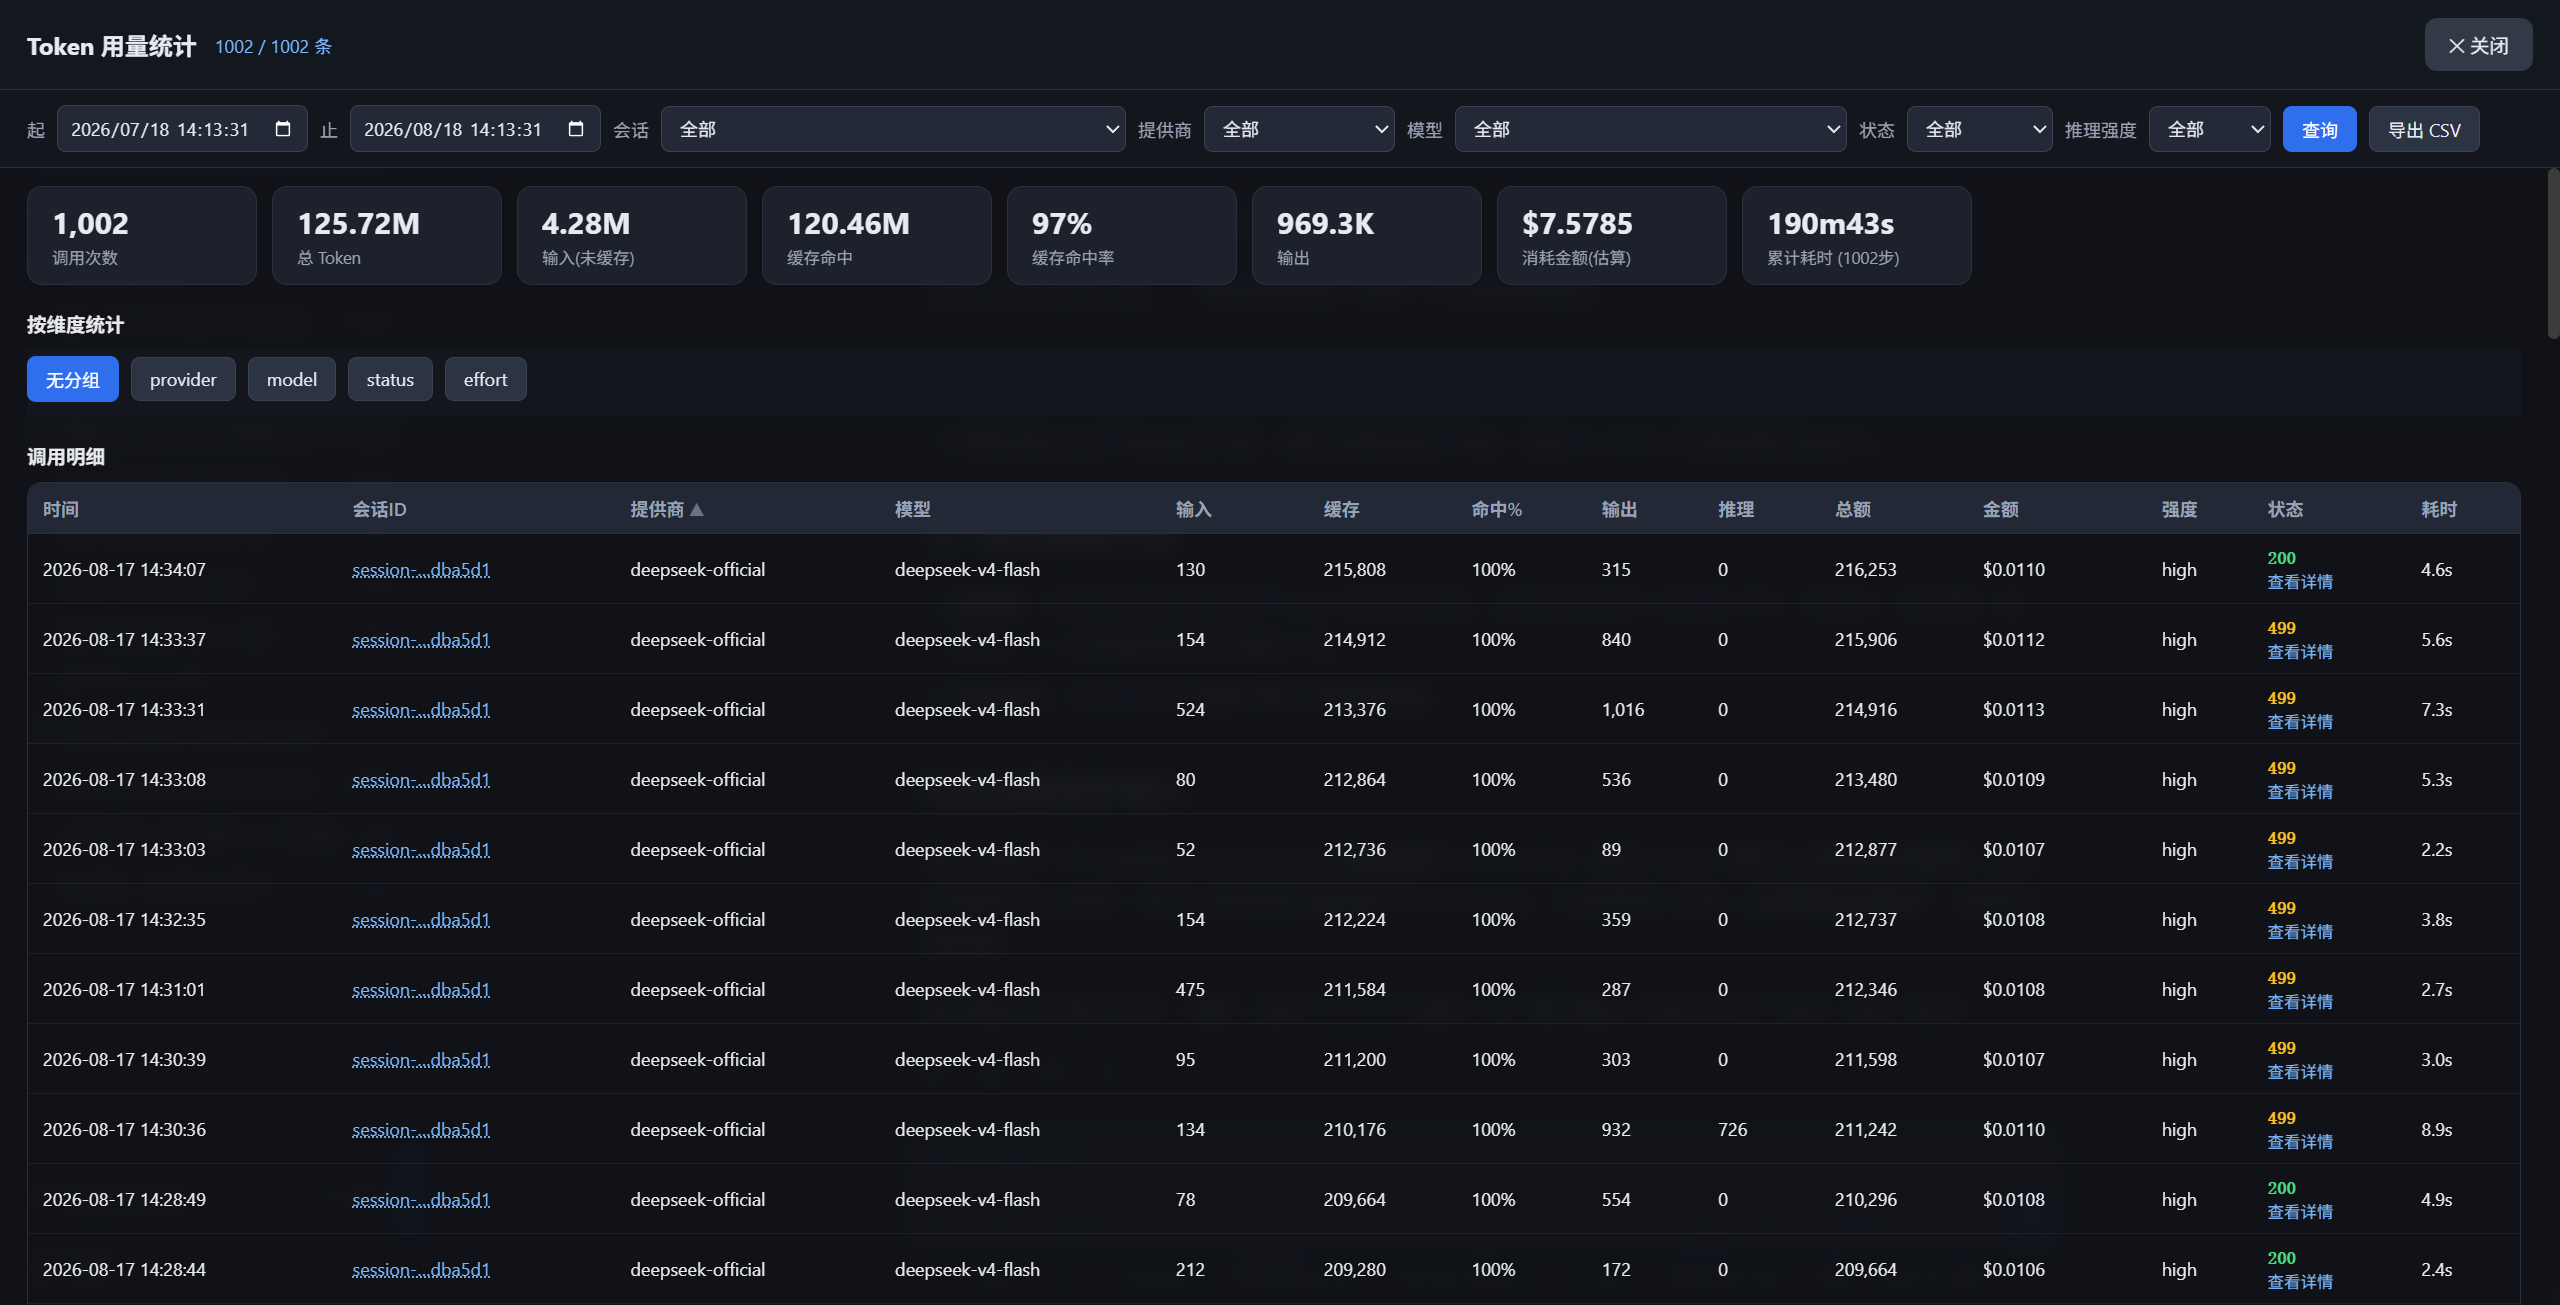
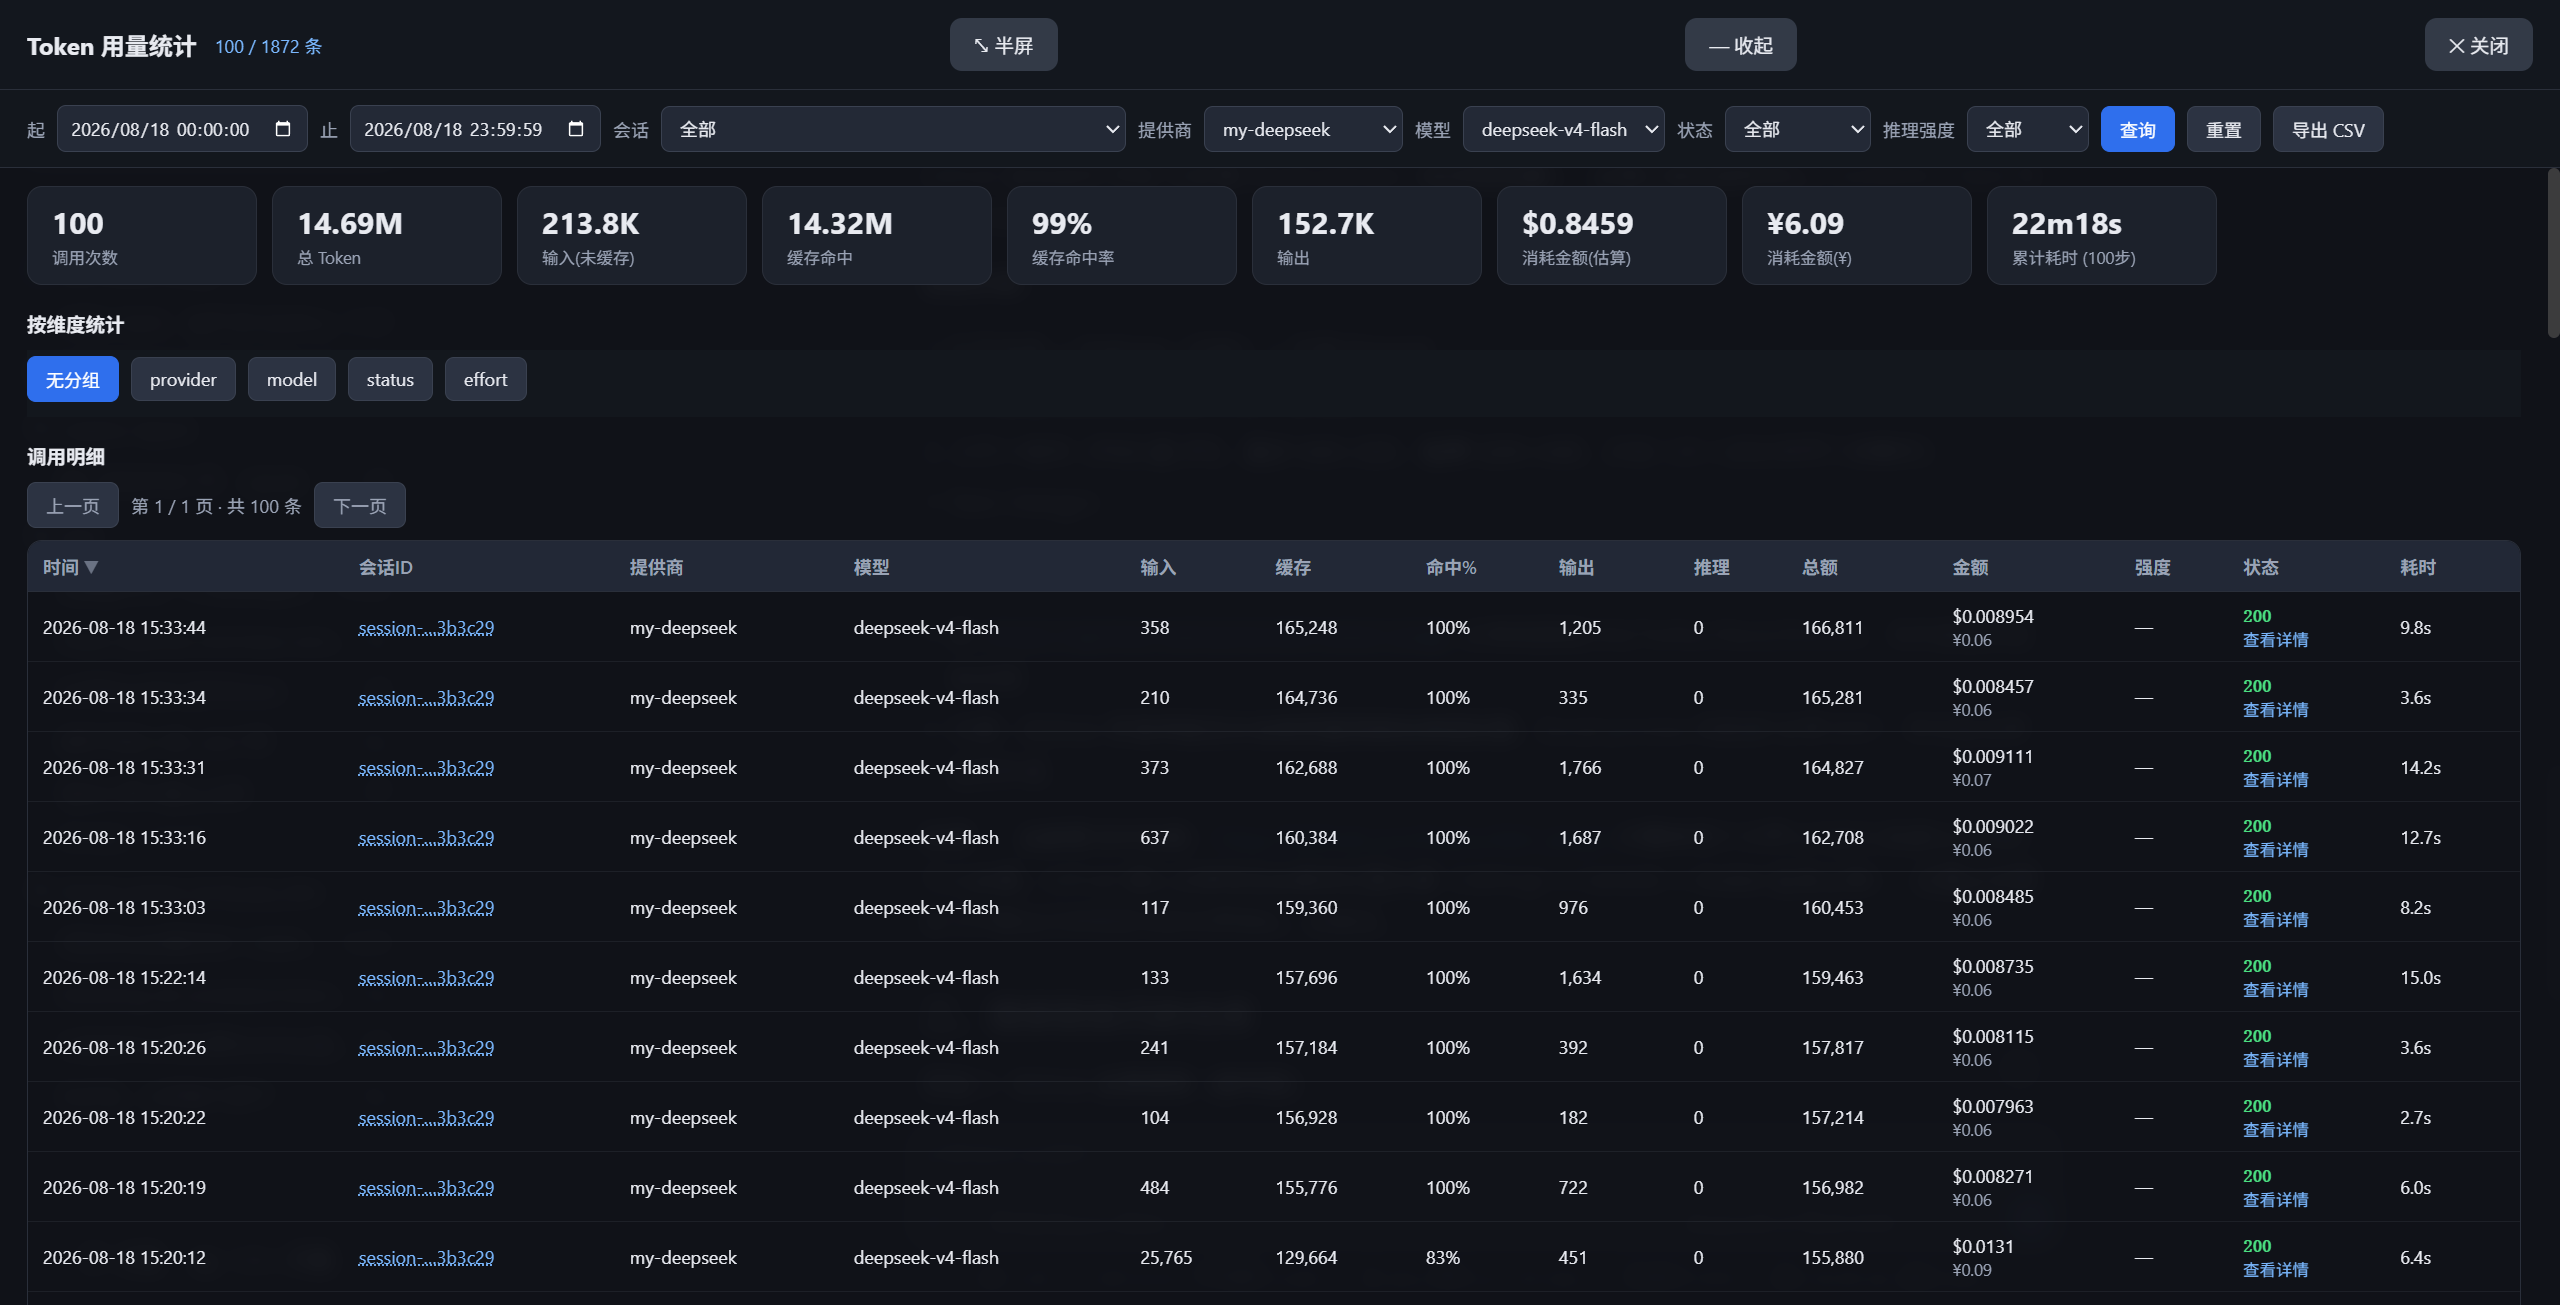
0.1.14: 明细/统计表金额拆分为 USD 与人民币两列, CSV 导出新增 costCny 列

diff --git a/client/dist/index.js b/client/dist/index.js
@@ -195,8 +195,6 @@ const css = `
 .tokuse-minibar { position: fixed; top: 12px; right: 12px; z-index: 9999; display: flex; align-items: center; gap: 8px; padding: 8px 16px; border-radius: 999px; background: var(--tokuse-header, rgba(20,23,30,0.97)); border: 1px solid var(--tokuse-border, #3a4150); color: var(--tokuse-fg, #e8eaf0); font-size: 13px; cursor: pointer; box-shadow: 0 4px 16px rgba(0,0,0,0.35); }
 .tokuse-minibar:hover { background: #2c3342; }
 .tokuse-minibar .lbl { color: var(--tokuse-dim, #9aa3b5); }
-/* \u4EBA\u6C11\u5E01\u91D1\u989D\u5C0F\u5B57 */
-.tokuse-cny { font-size: 11px; color: var(--tokuse-dim, #9aa3b5); }
 `;
 function Launcher(props) {
   const open = usePanelOpen();
@@ -399,10 +397,8 @@ function Panel() {
     /* @__PURE__ */ (0, import_jsx_runtime.jsx)("td", { children: r.cacheHitPct + "%" }),
     /* @__PURE__ */ (0, import_jsx_runtime.jsx)("td", { children: fmtCompact(r.outputTokens) }),
     /* @__PURE__ */ (0, import_jsx_runtime.jsx)("td", { children: fmtCompact(r.totalTokens) }),
-    /* @__PURE__ */ (0, import_jsx_runtime.jsxs)("td", { children: [
-      /* @__PURE__ */ (0, import_jsx_runtime.jsx)("div", { children: fmtCost(r.cost) }),
-      /* @__PURE__ */ (0, import_jsx_runtime.jsx)("div", { className: "tokuse-cny", children: fmtCostCny(r.cost, rateCny) })
-    ] }),
+    /* @__PURE__ */ (0, import_jsx_runtime.jsx)("td", { children: fmtCost(r.cost) }),
+    /* @__PURE__ */ (0, import_jsx_runtime.jsx)("td", { children: fmtCostCny(r.cost, rateCny) }),
     /* @__PURE__ */ (0, import_jsx_runtime.jsx)("td", { children: fmtDuration(r.llmMs) })
   ] }, r.key));
   const sortTh = (label, key) => /* @__PURE__ */ (0, import_jsx_runtime.jsxs)("th", { onClick: () => toggleSort(key), title: "\u70B9\u51FB\u6392\u5E8F", children: [
@@ -425,10 +421,8 @@ function Panel() {
       /* @__PURE__ */ (0, import_jsx_runtime.jsx)("td", { children: fmtNum(r.outputTokens) }),
       /* @__PURE__ */ (0, import_jsx_runtime.jsx)("td", { children: fmtNum(r.reasoningTokens) }),
       /* @__PURE__ */ (0, import_jsx_runtime.jsx)("td", { children: fmtNum(r.totalTokens) }),
-      /* @__PURE__ */ (0, import_jsx_runtime.jsxs)("td", { children: [
-        /* @__PURE__ */ (0, import_jsx_runtime.jsx)("div", { children: fmtCost(r.cost) }),
-        /* @__PURE__ */ (0, import_jsx_runtime.jsx)("div", { className: "tokuse-cny", children: fmtCostCny(r.cost, rateCny) })
-      ] }),
+      /* @__PURE__ */ (0, import_jsx_runtime.jsx)("td", { children: fmtCost(r.cost) }),
+      /* @__PURE__ */ (0, import_jsx_runtime.jsx)("td", { children: fmtCostCny(r.cost, rateCny) }),
       /* @__PURE__ */ (0, import_jsx_runtime.jsx)("td", { children: r.effort || "\u2014" }),
       /* @__PURE__ */ (0, import_jsx_runtime.jsxs)("td", { children: [
         /* @__PURE__ */ (0, import_jsx_runtime.jsx)("div", { children: /* @__PURE__ */ (0, import_jsx_runtime.jsx)("span", { className: "tokuse-code " + st.cls, children: st.label }) }),
@@ -466,6 +460,7 @@ function Panel() {
         /* @__PURE__ */ (0, import_jsx_runtime.jsx)("th", { children: "\u8F93\u51FA" }),
         /* @__PURE__ */ (0, import_jsx_runtime.jsx)("th", { children: "\u603BToken" }),
         /* @__PURE__ */ (0, import_jsx_runtime.jsx)("th", { children: "\u91D1\u989D" }),
+        /* @__PURE__ */ (0, import_jsx_runtime.jsx)("th", { children: "\u91D1\u989D(\xA5)" }),
         /* @__PURE__ */ (0, import_jsx_runtime.jsx)("th", { children: "\u8017\u65F6" })
       ] }) }),
       /* @__PURE__ */ (0, import_jsx_runtime.jsx)("tbody", { children: summaryRows })
@@ -510,6 +505,7 @@ function Panel() {
           sortTh("\u63A8\u7406", "reasoningTokens"),
           sortTh("\u603B\u989D", "totalTokens"),
           sortTh("\u91D1\u989D", "cost"),
+          sortTh("\u91D1\u989D(\xA5)", "cost"),
           sortTh("\u5F3A\u5EA6", "effort"),
           sortTh("\u72B6\u6001", "status"),
           sortTh("\u8017\u65F6", "llmMs")

diff --git a/client/index.js b/client/index.js
@@ -195,8 +195,6 @@ const css = `
 .tokuse-minibar { position: fixed; top: 12px; right: 12px; z-index: 9999; display: flex; align-items: center; gap: 8px; padding: 8px 16px; border-radius: 999px; background: var(--tokuse-header, rgba(20,23,30,0.97)); border: 1px solid var(--tokuse-border, #3a4150); color: var(--tokuse-fg, #e8eaf0); font-size: 13px; cursor: pointer; box-shadow: 0 4px 16px rgba(0,0,0,0.35); }
 .tokuse-minibar:hover { background: #2c3342; }
 .tokuse-minibar .lbl { color: var(--tokuse-dim, #9aa3b5); }
-/* 人民币金额小字 */
-.tokuse-cny { font-size: 11px; color: var(--tokuse-dim, #9aa3b5); }
 `
 
 function Launcher(props) {
@@ -419,7 +417,8 @@ function Panel() {
       <td>{r.key}</td><td>{fmtNum(r.calls)}</td><td>{fmtCompact(r.inputTokens)}</td>
       <td>{fmtCompact(r.cacheReadTokens)}</td><td>{r.cacheHitPct + '%'}</td><td>{fmtCompact(r.outputTokens)}</td>
       <td>{fmtCompact(r.totalTokens)}</td>
-      <td><div>{fmtCost(r.cost)}</div><div className="tokuse-cny">{fmtCostCny(r.cost, rateCny)}</div></td>
+      <td>{fmtCost(r.cost)}</td>
+      <td>{fmtCostCny(r.cost, rateCny)}</td>
       <td>{fmtDuration(r.llmMs)}</td>
     </tr>
   ))
@@ -444,7 +443,8 @@ function Panel() {
         <td>{fmtNum(r.outputTokens)}</td>
         <td>{fmtNum(r.reasoningTokens)}</td>
         <td>{fmtNum(r.totalTokens)}</td>
-        <td><div>{fmtCost(r.cost)}</div><div className="tokuse-cny">{fmtCostCny(r.cost, rateCny)}</div></td>
+        <td>{fmtCost(r.cost)}</td>
+        <td>{fmtCostCny(r.cost, rateCny)}</td>
         <td>{r.effort || '—'}</td>
         <td>
           <div><span className={'tokuse-code ' + st.cls}>{st.label}</span></div>
@@ -467,7 +467,7 @@ function Panel() {
     <div key="sumtab" className="tokuse-table-wrap">
       <table className="tokuse-table">
         <thead><tr>
-          <th>维度</th><th>调用</th><th>输入</th><th>缓存</th><th>命中率</th><th>输出</th><th>总Token</th><th>金额</th><th>耗时</th>
+          <th>维度</th><th>调用</th><th>输入</th><th>缓存</th><th>命中率</th><th>输出</th><th>总Token</th><th>金额</th><th>金额(¥)</th><th>耗时</th>
         </tr></thead>
         <tbody>{summaryRows}</tbody>
       </table>
@@ -500,7 +500,7 @@ function Panel() {
           <thead><tr>
             {sortTh('时间', 'time')}{sortTh('会话ID', 'sessionId')}{sortTh('提供商', 'provider')}{sortTh('模型', 'model')}
             {sortTh('输入', 'inputTokens')}{sortTh('缓存', 'cacheReadTokens')}{sortTh('命中%', 'cacheHitPercent')}{sortTh('输出', 'outputTokens')}
-            {sortTh('推理', 'reasoningTokens')}{sortTh('总额', 'totalTokens')}{sortTh('金额', 'cost')}{sortTh('强度', 'effort')}
+            {sortTh('推理', 'reasoningTokens')}{sortTh('总额', 'totalTokens')}{sortTh('金额', 'cost')}{sortTh('金额(¥)', 'cost')}{sortTh('强度', 'effort')}
             {sortTh('状态', 'status')}{sortTh('耗时', 'llmMs')}
           </tr></thead>
           <tbody>{detailRows}</tbody>

diff --git a/lib/index.js b/lib/index.js
@@ -376,13 +376,13 @@ export function apply(ctx) {
           }
           if (method === 'export') {
             const list = buildQuery(payload || {})
-            const header = ['time', 'provider', 'model', 'apiKey', 'inputTokens', 'outputTokens', 'cacheReadTokens', 'cacheWriteTokens', 'reasoningTokens', 'billedInput', 'cacheHitPercent', 'totalTokens', 'cost', 'effort', 'status', 'statusCode', 'errorCode', 'errorMsg', 'llmMs', 'sessionId', 'turn', 'step']
+            const header = ['time', 'provider', 'model', 'apiKey', 'inputTokens', 'outputTokens', 'cacheReadTokens', 'cacheWriteTokens', 'reasoningTokens', 'billedInput', 'cacheHitPercent', 'totalTokens', 'cost', 'costCny', 'effort', 'status', 'statusCode', 'errorCode', 'errorMsg', 'llmMs', 'sessionId', 'turn', 'step']
             const esc = (v) => {
               const s = String(v === undefined || v === null ? '' : v)
               return /[,"\n]/.test(s) ? '"' + s.replace(/"/g, '""') + '"' : s
             }
             const lines = [header.map(esc).join(',')]
-            for (const r of list) lines.push(header.map((h) => esc(r[h])).join(','))
+            for (const r of list) lines.push(header.map((h) => esc(h === 'costCny' ? ((Number(r.cost) || 0) * usdCnyRate) : r[h])).join(','))
             return sendJson(res, 200, { ok: true, data: { csv: lines.join('\n'), count: list.length } })
           }
           if (method === 'scan') {

diff --git a/README.md b/README.md
@@ -18,7 +18,8 @@
 - **醒目入口**：侧边栏底部蓝色渐变大按钮 "Token 用量"，一键打开全屏面板。
 - **秒级时间查询**：起止 `datetime-local`（精确到秒）过滤调用记录。
 - **多维度筛选**：会话 ID / 模型提供商 / 模型 / 状态 / 推理强度 下拉筛选。
-- **排序**：明细表**全部 14 列**点击表头可排序（时间/会话ID/提供商/模型/输入/缓存/命中%/输出/推理/总额/金额/强度/状态/耗时），升降序切换。默认按**时间倒序**（最新在前）。
+- **排序**：明细表**全部 15 列**点击表头可排序（时间/会话ID/提供商/模型/输入/缓存/命中%/输出/推理/总额/金额/金额(¥)/强度/状态/耗时），升降序切换。默认按**时间倒序**（最新在前）。
+- **金额双币显示**：明细表与统计表金额均为 USD + 人民币两列；人民币按汇率换算（默认 7.2，可用 `settings.yaml` 的 `token-usage.usdCnyRate` 覆盖），CSV 导出含 `costCny` 列。
 - **会话 ID**：明细表显示会话 ID（缩略），点击任意会话 ID 即按该会话筛选。
 - **状态码 + 详情**：状态列显示 HTTP 状态码（200 成功 / 400 / 401 / 429 / 500 等，来自 `turn/end` 错误），状态下方【查看详情】弹窗展示完整信息（含会话 ID、错误信息、错误码、各 Token 桶、金额、耗时、Turn/Step 等）。
 - **统计表**：按 provider / model / status / effort 分组汇总（调用数、各 Token、命中率、金额、耗时）。
